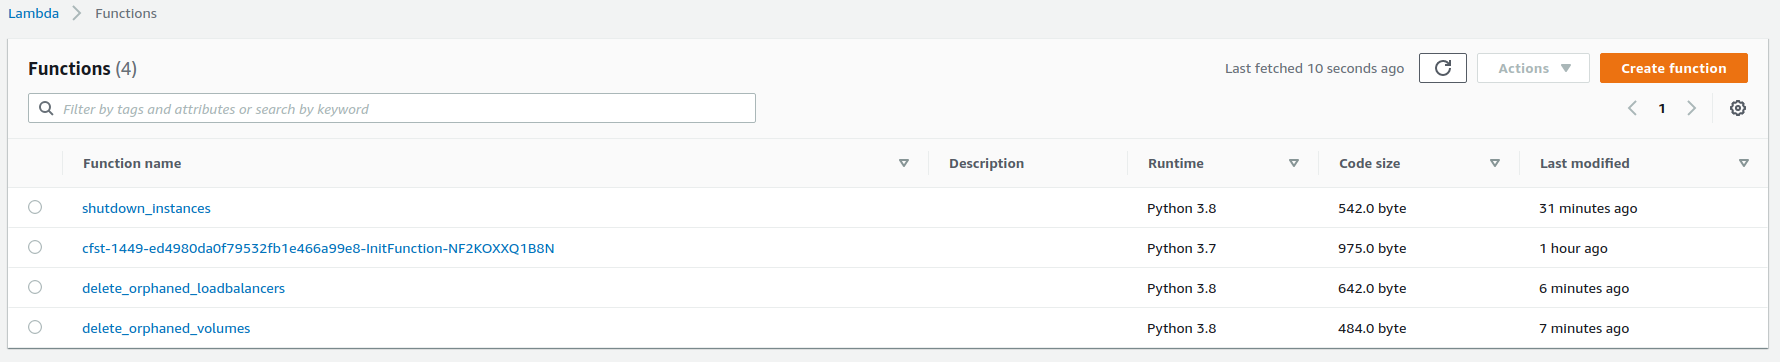
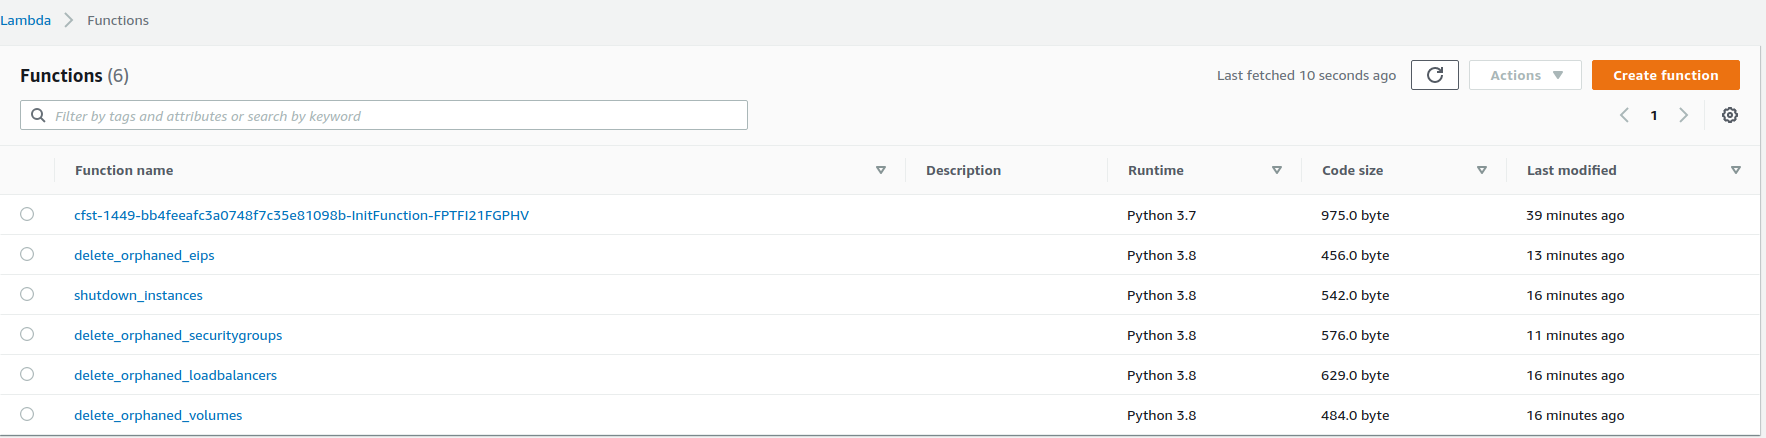
Lambda added per a job with associated terraform

diff --git a/delete_orphaned_loadbalancers.py b/delete_orphaned_loadbalancers.py
@@ -8,7 +8,7 @@ def main(event, context):
     elbv2_client = boto3.client('elbv2')
 
     #classic load balancers
-    victims = []
+
     bals = elb_client.describe_load_balancers()
     for elb in bals['LoadBalancerDescriptions']:
         if len(elb['Instances']) < 1:
@@ -18,7 +18,7 @@ def main(event, context):
                 print(ex)
 
     # application load balancers
-    victims = []
+
     bals = elbv2_client.describe_load_balancers()
     for elb in bals['LoadBalancers']:
         listeners = elbv2_client.describe_listeners(LoadBalancerArn=elb['LoadBalancerArn'])
@@ -31,7 +31,7 @@ def main(event, context):
                         print(ex)
     
     # application load balancers target groups
-    victims = []
+
     bals = elbv2_client.describe_target_groups()
     for tg in bals['TargetGroups']:
         for key, value in tg.items():

diff --git a/delete_orphaned_securitygroups.py b/delete_orphaned_securitygroups.py
@@ -1,0 +1,28 @@
+'''
+Delete orphaned security groups
+'''
+import boto3
+
+def main(event, context):
+    ec2 = boto3.resource('ec2')
+    security_group = ec2.SecurityGroup('id')
+
+    # get all sgs and instances
+    sgs = list(ec2.security_groups.all())
+    instances = list(ec2.instances.all())
+    
+    all_sgs = set([sg.group_name for sg in sgs ])
+    all_inst_sgs = set([sg['GroupName'] for inst in instances for sg in inst.security_groups])
+    
+    #find unused sgs
+    unused_sgs = all_sgs - all_inst_sgs
+    
+    # remove the aws default sg - we dont want to remove this
+    unused_sgs.remove("default")
+
+    try:
+        for sg in unused_sgs:
+            print("Deleting sg {0}".format(sg))
+            security_group.delete(GroupName=sg)
+    except Exception as ex:
+        print(ex)

diff --git a/delete_old_snapshots.py b/delete_old_snapshots.py
@@ -1,0 +1,28 @@
+'''
+Delete old snapshots
+'''
+import boto3
+import datetime
+import sys
+
+def main(event, context):
+
+    ec2 = boto3.client('ec2')
+    age = 30
+
+    snapshots = ec2.describe_snapshots()
+
+    for ami in snapshots['Snapshots']:
+        created_date = ami['StartTime']
+        snapshot_id = ami['SnapshotId']
+
+        create_date = date.replace(tzinfo=None)
+        diff = datetime.datetime.now() - create_date
+        day_old = diff.days
+
+        if day_old > age:
+            try:
+                print("Snapshot {0} is {1} days old (threshold {2}), deleting..").format(snapshot_id, str(day_old), age)
+                ec2.delete_snapshot(SnapshotId=snapshot_id)
+            except Exception as ex:
+                print(ex)

diff --git a/delete_orphaned_eips.py b/delete_orphaned_eips.py
@@ -1,0 +1,17 @@
+'''
+Delete orphaned eips
+'''
+import boto3
+
+def main(event, context):
+
+    client = boto3.client('ec2')
+    addresses_dict = client.describe_addresses()
+
+    for eip_dict in addresses_dict['Addresses']:
+        if "InstanceId" not in eip_dict:
+            print (eip_dict['PublicIp'] + " doesn't have any instances associated, releasing")
+            try:
+                client.release_address(AllocationId=eip_dict['AllocationId'])
+            except Exception as ex:
+                print (ex)

diff --git a/README.md b/README.md
@@ -9,9 +9,18 @@ Scheduled CloudWatch rule which triggers a Lambda to delete orphaned volumes
 ## delete orphaned loadbalancers
 Scheduled CloudWatch rule which triggers a Lambda to delete orphaned loadbalancers
 
+# delete orphaned security groups
+Scheduled CloudWatch rule which triggers a Lambda to delete orphaned security groups
+
+# delete orphaned eips
+Scheduled CloudWatch rule which triggers a Lambda to delete orphaned EIPs
+
+
+
 ![logo](media/functions.png)
 
 ![logo](media/cw_event_rules.png)
 
 ### TODO
 * Restrict IAM polices further
+* Create TF for snapshot lambda.
